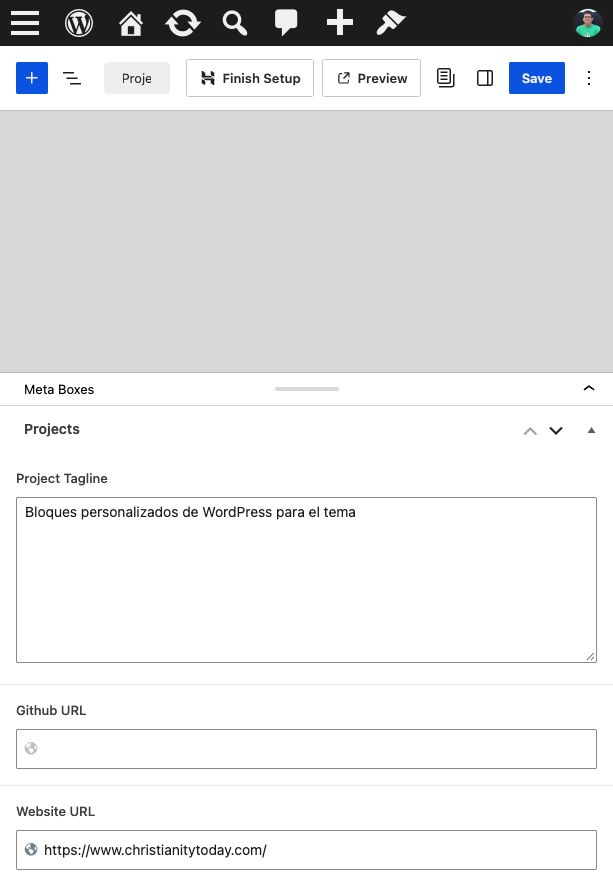
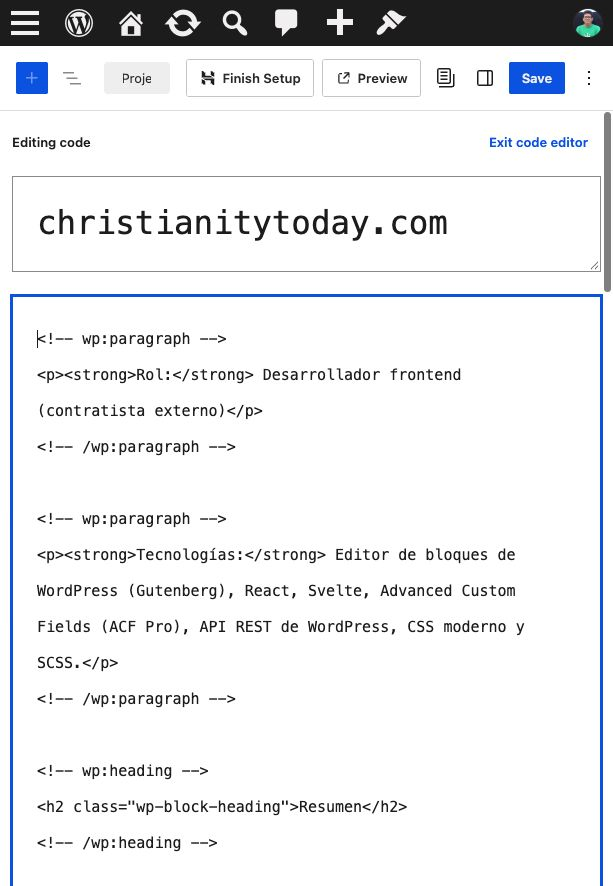
Record project case deployments and blocked production postflight

diff --git a/docs/qa/PROJECT_CASE_STUDY_2026-10-24.md b/docs/qa/PROJECT_CASE_STUDY_2026-10-24.md
@@ -26,4 +26,13 @@ Navegador local con componentes reales: propuesta ES a320CSS, scrollWidth320; En
 
 ## Entrega
 
-Soporte de frontend preparado para staging; el recibo se añadirá después de compilar/desplegar la fuente consolidada. Los dos cuerpos aprobados ya están publicados en el CMS compartido y por ello son consumidos por staging y producción, sujetos al TTL de sus cachés. Producción conserva por ahora `1e47a630-d7f3-4afa-a8b0-8bd39ed09db2` sin el índice nuevo. El límite429 y aceptación integral permanecen abiertos; este incremento no los resuelve.
+Fuente consolidada `e8d38ab897911796d2a077dba0f56c9aabbd54fd`. Builds finales de staging/producción correctos y artefactos de destino/auth/contacto/bindings comprobados antes de subir. No cambios de código después de las pruebas ni nuevas dependencias.
+
+- Staging: versión `05b5c8d8-6e4d-4566-8c27-04c1bfc2ec60`, anterior `f7445197-da24-4302-9873-117aab5c07d3`. [Postflight](PROJECT_CASE_STUDY_STAGING_2026-10-24.json): dosGET EN/ES separados4s, ambos200 con índice, anchors/foco, unaH1, identidadCMS verified, noindex, CSP/hashes y contacto desactivado correctos.
+- Producción: versión `79cb5e81-05e2-4747-9fd4-b450c855ee0c` al100%, deployment `7cb226e8-e23c-44c0-aae7-aff9424ca4b2`, creado2026-10-25 05:27:50UTC (24octubre23:27:50 en Nicaragua). Anterior `1e47a630-d7f3-4afa-a8b0-8bd39ed09db2`. [Recibo](PROJECT_CASE_STUDY_PRODUCTION_2026-10-24.json): el primerGET a la fichaEN devuelve503/Retry-After60; no se solicitó ES, no hubo reintentos. No se correlacionaron operación ni status upstream en este intervalo: no atribuir el503 nuevo específicamente a429 sin logs. No se afirma postflight público correcto ni aceptación final.
+
+No se hizo rollback: el frontend pasó ambas fichas reales en staging y no hay evidencia que atribuya el fallo de disponibilidad a habilitar el índice existente. La incidencia upstream ya estaba abierta; volver al frontend anterior no revierte las ediciones aprobadas del CMS compartido. No restaurar ni sobrescribir esos cuerpos sin una razón y un diff de recuperación revisado.
+
+Los dos cuerpos aprobados están publicados y verificados directamente en el CMS, con los campos ajenos al cuerpo conservados. [Texto español guardado](project-case-es-cms-saved-2026-10-24.png). El servidor local4412 se detuvo y su pestaña se cerró; viewport restaurado. Editor quedó en modo visual y la sesión abierta por Alex se conservó. Sinpush/cambiosDNS/permisos/contacto ni operaciones del sistemaMCP aplazado. El límite429 histórico y aceptación integral permanecen abiertos; este incremento no los resuelve. Siguiente comprobación pública:reanudar solo la pasada EN/ES pendiente cuando el origen esté disponible, sin repetir la publicación ni todo el smoke.
+
+Estas ediciones autorizadas cambian la fuente de146/196. Las huellas de propuestas MCP anteriores pueden haber quedado desfasadas: no regenerarlas, aprobarlas, aplicarlas ni sustituir sus baselines por continuidad. La incidencia histórica de postmeta no se cierra con esta verificación limitada a los campos públicos de dos proyectos.

diff --git a/docs/EXECUTION_STATUS.md b/docs/EXECUTION_STATUS.md
@@ -1,5 +1,7 @@
 # Ejecución del rediseño
 
+**24 octubre — caso Christianity Today ampliado y aprobado, índice desplegado:** Alex aportó caso técnico, aprobó cuerposEN146/ES196 y abrió sesión. ENsolo4H4→H2/prosaigual; EStraducción ampliada publicada vía editorGutenberg. RAWinspeccionado antes de editar; postflightCMS confirma4H2/cuerpos aprobados y conservación de IDs/título/slugs/status/visibilidad/idiomas/ACF/imagen/tags/traducciones. Fuente `e8d38ab`; índice nativo en proyectos largos sin consultas/dependencias nuevas;16unitarias relevantes/SSR/builds correctos. Staging `05b5c8d8-6e4d-4566-8c27-04c1bfc2ec60`: fichas realesEN/ES200/índice/CSP/foco correctos. Producción `79cb5e81-05e2-4747-9fd4-b450c855ee0c`100%, previa1e47a630: primerGETEN503/RetryAfter60, ESnoejecutado/sinreintentos. Postflightproducción bloqueado, sin statusupstream correlacionado ni rollback. [Recibo y alcance](qa/PROJECT_CASE_STUDY_2026-10-24.md). No repetir edits/aprobación/publicación. Sinpush/DNS/grants/contacto/MCPoperativo; servidor4412detenido/viewportrestaurado/editorvisual.429 y aceptación integral abiertos.
+
 **24 octubre — buscador editorial promovido a producción:**fuente `06674e1`, versión `1e47a630-d7f3-4afa-a8b0-8bd39ed09db2`100%, anterior `6c82a0d4-51b0-4f0e-a683-a8b2e65426b3` identificada. Buildproducción correcto/config verificada; sin cambios de aplicación respecto a staging probado con262unitarias/SSR. Artículos200/10entradas/identidad/canonical/indexación/CSP4scripts correctos. Navegador Medium+Gutenberg1/10; vacío0/10 y limpiar por teclado10/10/foco correctos. [Recibo/captura/límites](qa/REFERENCE_DIRECTORY_PRODUCTION_2026-10-24.md). Sinpush/CMS/DNS/contacto/staging;429 y aceptación final siguen abiertos. Próximo producto:casos de proyecto con contenido verificable y diff editorial antes de mutarCMS; MCP aplazado.
 
 **24 octubre — siguiente incremento editorial desplegado en staging:**fuente `6c3a3b7`, versión `f7445197-da24-4302-9873-117aab5c07d3`, previa `a35f2c0d-b218-44bf-8ae9-72c156f9abad`. Archivo artículos añade lista pública, búsqueda título y canal, conteo/estado vacío/limpieza accesibles y enlaces SSR sinJS. Reutiliza inventario/taxonomía, sin nueva operaciónCMS; proyección añade solo título público y valida slugs codificados.262unitarias/SSR/build178archivos0diagnósticos correctos. Remoto artículos200/10entradas/CSP/identidad/noindex/contacto desactivado correcto; navegador Podcast3/10+Guatemala1/10 y320CSS sin overflow. [Recibo y capturas](qa/REFERENCE_DIRECTORY_2026-10-24.md). Producción conserva6c82a0d4, sinpush/CMS/contacto;429/aceptación final abiertos, MCP aplazado. Próximo:revisar y promover este incremento cuando corresponda; casos de proyecto requieren contenido editorial verificable, no inventarlo.

diff --git a/docs/SESSION_HANDOFF.md b/docs/SESSION_HANDOFF.md
@@ -1,5 +1,7 @@
 # Traspaso de sesión — 21 octubre 2026
 
+**Estado más reciente24octubre — Christianity Today publicado EN/ES con aprobación:** fuente `e8d38ab`; [recibo](qa/PROJECT_CASE_STUDY_2026-10-24.md). Alex dio detalles/aprobó ambos cuerpos e inició sesióneditor. EN146soloH4→H2/conserva prosa; ES196traducción extensa. GuardadoGutenberg y postflightCMS correctos/campos ajenos conservados. No repetir edición, preparaciónMCP ni pedir de nuevo aprobación. Índice frontend sin nuevasconsultas,16pruebas/SSR/builds correctos. Stagingversión `05b5c8d8-6e4d-4566-8c27-04c1bfc2ec60`: EN/ESreales200/índice/foco/CSP. Producciónversión `79cb5e81-05e2-4747-9fd4-b450c855ee0c`100%, previa1e47a630: postflightprimerGETEN503/RetryAfter60; sinreintentos/ESnoejecutado/statusupstreamnocorrelacionado/rollbackno. CMSpublicado verificado, comprobaciónpública pendiente; no afirmar aceptaciónintegral ni429resuelto. Siguiente:solo pasadaEN/ESpendiente cuandoorigenestédisponible. Servidor4412detenido/viewportrestaurado/editorvisual/sesiónAlexconservada. Sinpush/DNS/permisos/contacto nioperacionesMCPaplazadas.
+
 **Estado más reciente24octubre — buscador ya en producción:** `alexcuadra-dev` versión `1e47a630-d7f3-4afa-a8b0-8bd39ed09db2`100%, fuente `06674e1`; previa `6c82a0d4-51b0-4f0e-a683-a8b2e65426b3`. [Recibo](qa/REFERENCE_DIRECTORY_PRODUCTION_2026-10-24.md). Buildproducción/config correctos; artículos200/10entradas/CSP/identidad/indexación y filtros reales/vacío/limpieza teclado correctos. No repetir promoción:staging y producción ya incluyen buscador. Sinpush/CMS/DNS/contacto.429/aceptación integral siguen pendientes. Próximo producto:preparar casos de proyecto con contenido verificable antes de mutacionesCMS. MCP aplazado; entradas inferiores históricas.
 
 **Último incremento24octubre — archivo editorial en staging:**commit `6c3a3b7`, versión `f7445197-da24-4302-9873-117aab5c07d3` en `alexcuadra-dev-staging`; [recibo](qa/REFERENCE_DIRECTORY_2026-10-24.md). Lista10referencias reales, búsqueda título/canal, conteo y vacío accesibles; no nuevas operacionesCMS.262unitarias/SSR/build correctos; remoto200/CSP/identidad/noindex y filtros reales/móvil320CSS correctos. Producción sigue `6c82a0d4-51b0-4f0e-a683-a8b2e65426b3`, aún sin este buscador.429 y aceptación integral siguen pendientes. Sinpush/CMS/contacto; servidor4410 detenido/viewport restaurado, pestaña staging conservada. Siguiente:revisar/promover este incremento; no repetir todas las pruebas ni mutar CMS por continuidad. MCP aplazado.

diff --git a/docs/WORKERS_PRODUCTION.md b/docs/WORKERS_PRODUCTION.md
@@ -1,5 +1,7 @@
 # Migración de producción de Pages a Workers
 
+**Estado vigente24octubre:** índice de proyectos desplegado en producción `79cb5e81-05e2-4747-9fd4-b450c855ee0c`100% y casoChristianityToday EN/ES editado con aprobación explícita. [Recibo](qa/PROJECT_CASE_STUDY_2026-10-24.md): stagingEN/ES200/índice correcto; postflightproducciónEN503/RetryAfter60, detenido sinreintentos, aceptación pública pendiente. No revertir automáticamente frontend ni CMS por el bloqueo upstream histórico. Contacto desactivado; no repetir migración/DNS/grants/publicación por las entradas históricas.
+
 **Última publicación24octubre:** buscador/filtros editoriales activos en producción, versión `1e47a630-d7f3-4afa-a8b0-8bd39ed09db2`100%. [Recibo público](qa/REFERENCE_DIRECTORY_PRODUCTION_2026-10-24.md). Contacto desactivado,429 y aceptación integral pendientes; no repetir migración/DNS/credenciales por las instrucciones históricas inferiores.
 
 **Actualización 24 octubre 2026:** rediseño e inventario de referencias con caché publicados en `alexcuadra-dev`, versión `6c82a0d4-51b0-4f0e-a683-a8b2e65426b3` al100%. Formulario desactivado y autenticación CMS activa. [Recibo de publicación](qa/PRODUCTION_RELEASE_2026-10-24.md). El límite429 y la aceptación integral continúan abiertos. Las secciones de migración inferiores conservan el procedimiento histórico: no repetir creación del Worker, traslado de dominio, cambios de credenciales o restricción GraphQL por continuidad.
